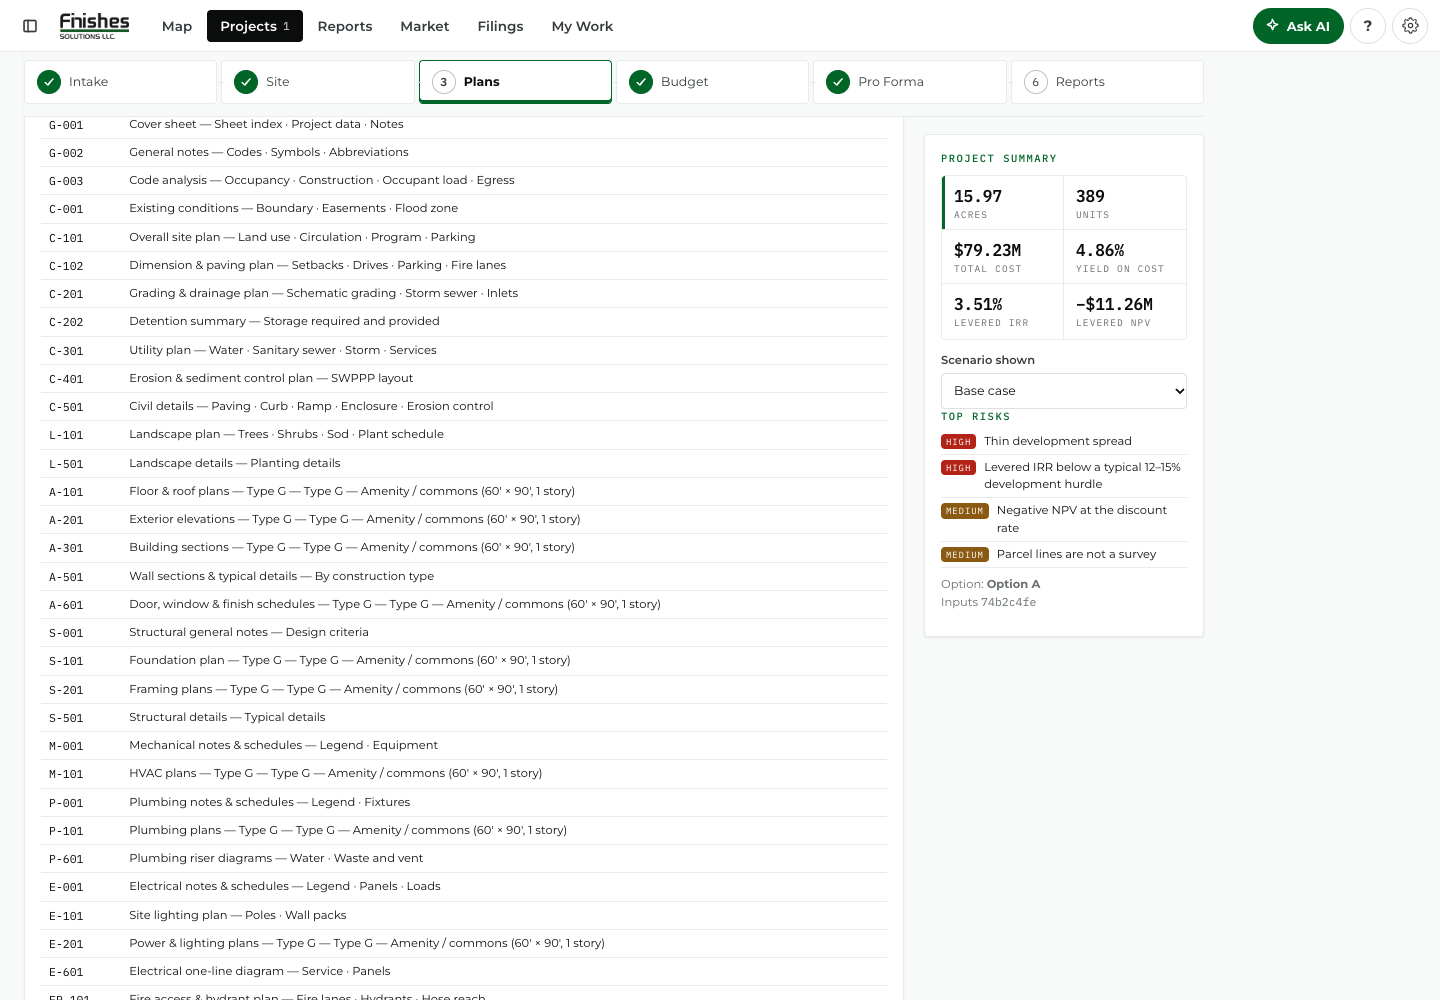
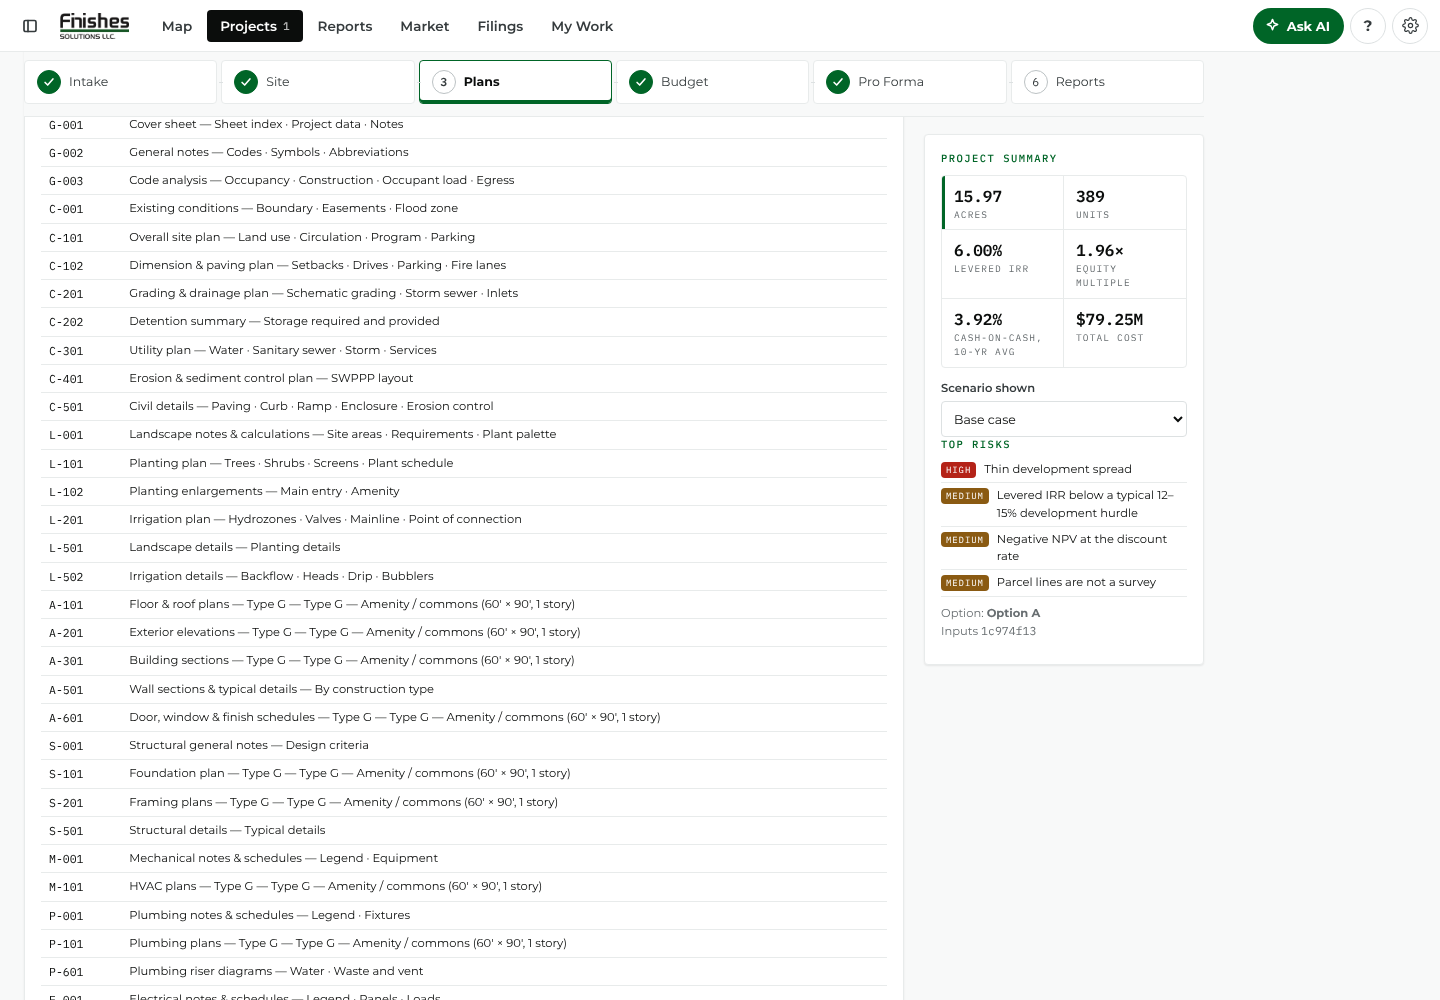
Feasibility pro forma: levered IRR, equity multiple and cash-on-cash over the hold first, with cash-on-cash by year
Claude-Session: https://claude.ai/code/session_01SW3nVVs1yWDwbekvWDREuP

diff --git a/src/workspace.js b/src/workspace.js
@@ -86,7 +86,7 @@ export function workspace(env) {
     const scen = f.scenarios.length ? '<label class="ws-f"><span>Scenario shown</span><select data-f="activeScenario"><option value="">Base case</option>' + f.scenarios.map(x => '<option value="' + esc(x.id) + '"' + (x.id === f.activeScenario ? ' selected' : '') + '>' + esc(x.name) + '</option>').join('') + '</select></label>' : '';
     return '<aside class="ws-rail" aria-labelledby="wsRailH"><div class="ws-card"><div class="kicker" id="wsRailH">Project summary</div>' +
       '<div class="ws-kpis">' + kpi(s ? num(s.acres, 2) : num((p.parcels || []).reduce((a, x) => a + (x.acres || 0), 0), 2), 'Acres') + kpi(s ? (s.units ? num(s.units) : num(s.gfa)) : '—', s?.units ? 'Units' : 'Gross sf') +
-        kpi(h ? usdM(h.totalCost) : '—', 'Total cost') + kpi(h ? (h.forSale ? pct(h.margin, 1) : pct(h.yoc)) : '—', h?.forSale ? 'Margin' : 'Yield on cost') + kpi(h ? pct(h.levIrr) : '—', 'Levered IRR') + kpi(h ? usdM(h.npvLev) : '—', 'Levered NPV') + '</div>' +
+        kpi(h ? pct(h.levIrr) : '—', 'Levered IRR') + kpi(h ? num(h.multiple, 2) + '×' : '—', 'Equity multiple') + (h?.forSale ? kpi(pct(h.margin, 1), 'Margin') : kpi(h?.cocAvg != null ? pct(h.cocAvg) : '—', 'Cash-on-cash, ' + (h?.cocByYear?.length || 10) + '-yr avg')) + kpi(h ? usdM(h.totalCost) : '—', 'Total cost') + '</div>' +
       scen + (study?.risks?.length ? '<div class="ws-risks"><div class="kicker">Top risks</div><ul>' + study.risks.filter(r => r.level !== 'low').slice(0, 4).map(r => '<li data-level="' + r.level + '"><span class="ws-lv">' + r.level + '</span>' + esc(r.title) + '</li>').join('') + '</ul></div>' : '') +
       (study?.option ? '<p class="ws-meta">Option: <b>' + esc(study.option.name) + '</b>' + (study.scenario ? ' · ' + esc(study.scenario.name) : '') + '<br>Inputs <span class="mono">' + esc(study.inputsHash || '') + '</span></p>' : '') + '</div></aside>';
   }
@@ -161,8 +161,12 @@ export function workspace(env) {
     if (!study || study.missing) return empty('Nothing to model yet', 'The pro forma runs on a laid-out site option and its budget.', 'Go to Site', 'step:site');
     const f = fz(p), s = st(p), h = study.pf.headline, editing = f.scenarios.find(x => x.id === s.editing) || null;
     const over = editing ? editing.overrides : f.overrides;
-    const kpis = '<div class="ws-kpis big">' + [[usdM(h.totalCost), 'Total development cost'], h.forSale ? [pct(h.margin, 1), 'Margin on sales'] : [usdM(h.noi), 'Stabilized NOI'], h.forSale ? [usdM(h.profit), 'Profit'] : [pct(h.yoc), 'Yield on cost'], [pct(h.levIrr), 'Levered IRR'], [pct(h.unlevIrr), 'Unlevered IRR'], [usdM(h.npvLev), 'Levered NPV'], [num(h.multiple, 2) + '×', 'Equity multiple'], [h.dscr != null ? num(h.dscr, 2) + '×' : '—', 'DSCR']]
-      .map(([v, l]) => '<div class="ws-kpi"><b>' + v + '</b><span>' + esc(l) + '</span></div>').join('') + '</div>';
+    // the three returns the team decides on first (levered IRR, equity multiple, cash-on-cash over the hold), then the rest
+    const yrs = h.cocByYear?.length || 0, lead = [[pct(h.levIrr), 'Levered IRR'], [num(h.multiple, 2) + '×', 'Equity multiple'], h.forSale ? [pct(h.margin, 1), 'Margin on sales'] : [h.cocAvg != null ? pct(h.cocAvg) : '—', 'Cash-on-cash, ' + (yrs || h.hold || 10) + '-year average']];
+    const rest = [[usdM(h.totalCost), 'Total development cost'], h.forSale ? [usdM(h.profit), 'Profit'] : [usdM(h.noi), 'Stabilized NOI'], h.forSale ? null : [pct(h.yoc), 'Yield on cost'], h.forSale ? null : [h.coc != null ? pct(h.coc) : '—', 'Cash-on-cash, year 1'], [pct(h.unlevIrr), 'Unlevered IRR'], [usdM(h.npvLev), 'Levered NPV'], [h.dscr != null ? num(h.dscr, 2) + '×' : '—', 'DSCR']].filter(Boolean);
+    const kpiH = ([v, l]) => '<div class="ws-kpi"><b>' + v + '</b><span>' + esc(l) + '</span></div>';
+    const cocRow = yrs ? '<div class="ws-scroll" tabindex="0" role="region" aria-label="Cash-on-cash by year"><table class="ws-t ws-coc"><caption>Cash-on-cash by year of the hold (cash flow after debt service ÷ equity)</caption><thead><tr>' + h.cocByYear.map((_, i) => '<th scope="col" class="r">Yr ' + (i + 1) + '</th>').join('') + '</tr></thead><tbody><tr>' + h.cocByYear.map(v => '<td class="r m">' + pct(v) + '</td>').join('') + '</tr></tbody></table></div>' : '';
+    const kpis = '<div class="ws-kpis big ws-lead">' + lead.map(kpiH).join('') + '</div>' + cocRow + '<div class="ws-kpis">' + rest.map(kpiH).join('') + '</div>';
     // the assumptions, grouped, each with its source
     const groups = GROUPS.map(([g, label]) => { const rows = study.register.filter(a => a.group === g); if (!rows.length) return '';
       return '<details class="ws-box" data-group="' + g + '"' + (s.open[g] ? ' open' : '') + '><summary><span>' + label + '</span><span class="ws-c">' + rows.length + '</span></summary><div class="ws-as">' + rows.map(a => {

diff --git a/src/workspace.css b/src/workspace.css
@@ -47,6 +47,9 @@
 /* ---- KPI tiles (a green rule on the first, like the report) ---- */
 .ws-kpis{display:grid;grid-template-columns:1fr 1fr;border:1px solid var(--line);border-radius:var(--r-sm);margin:var(--sp-2) 0 var(--sp-3);overflow:hidden}
 .ws-kpis.big{grid-template-columns:repeat(4,minmax(0,1fr));margin-top:0}
+.ws-kpis.ws-lead{grid-template-columns:repeat(3,minmax(0,1fr))}.ws-lead .ws-kpi b{font-size:1.6em}
+.ws-kpis:not(.big){grid-template-columns:repeat(4,minmax(0,1fr))}.ws-rail .ws-kpis{grid-template-columns:1fr 1fr}
+.ws-coc caption{caption-side:top;text-align:left;font-size:12px;color:var(--ink-600);padding:0 0 4px}
 .ws-kpi{padding:var(--sp-2) var(--sp-3);border-left:1px solid var(--line);border-top:1px solid var(--line);margin:-1px 0 0 -1px}
 .ws-kpi:first-child{box-shadow:inset 3px 0 0 var(--green-700)}
 .ws-kpi b{display:block;font-family:var(--font-mono);font-size:var(--fs-lg);font-weight:600;color:var(--ink-950);font-variant-numeric:tabular-nums;white-space:nowrap}
